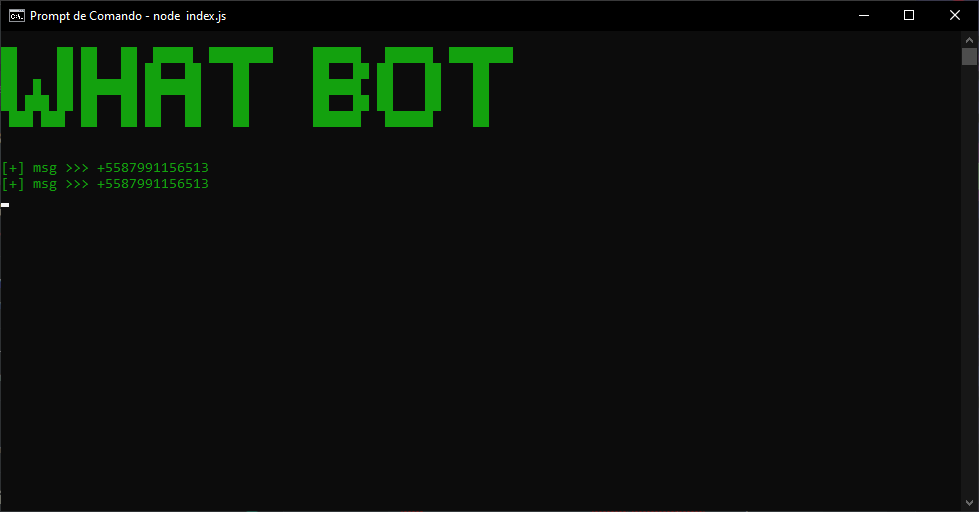
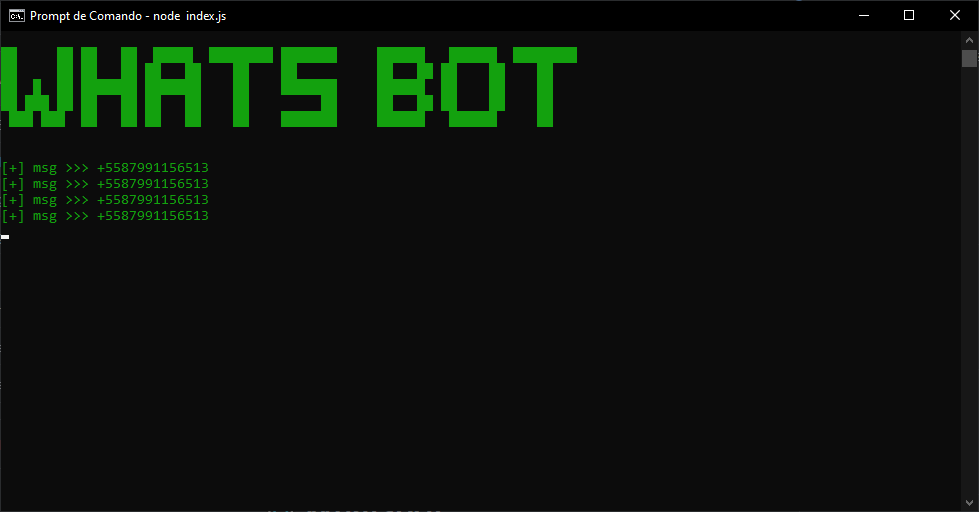
add img

diff --git a/index.js b/index.js
@@ -6,12 +6,12 @@ const fs = require("fs");
 require("colors");
 
 const banner = `
-██     ██ ██   ██  █████  ████████     ██████   ██████  ████████ 
-██     ██ ██   ██ ██   ██    ██        ██   ██ ██    ██    ██    
-██  █  ██ ███████ ███████    ██        ██████  ██    ██    ██    
-██ ███ ██ ██   ██ ██   ██    ██        ██   ██ ██    ██    ██    
- ███ ███  ██   ██ ██   ██    ██        ██████   ██████     ██    
-
+██     ██ ██   ██  █████  ████████ ███████     ██████   ██████  ████████ 
+██     ██ ██   ██ ██   ██    ██    ██          ██   ██ ██    ██    ██    
+██  █  ██ ███████ ███████    ██    ███████     ██████  ██    ██    ██    
+██ ███ ██ ██   ██ ██   ██    ██         ██     ██   ██ ██    ██    ██    
+ ███ ███  ██   ██ ██   ██    ██    ███████     ██████   ██████     ██    
+                                                                         
 `;
 
 //configuração para passar parametros por cli
